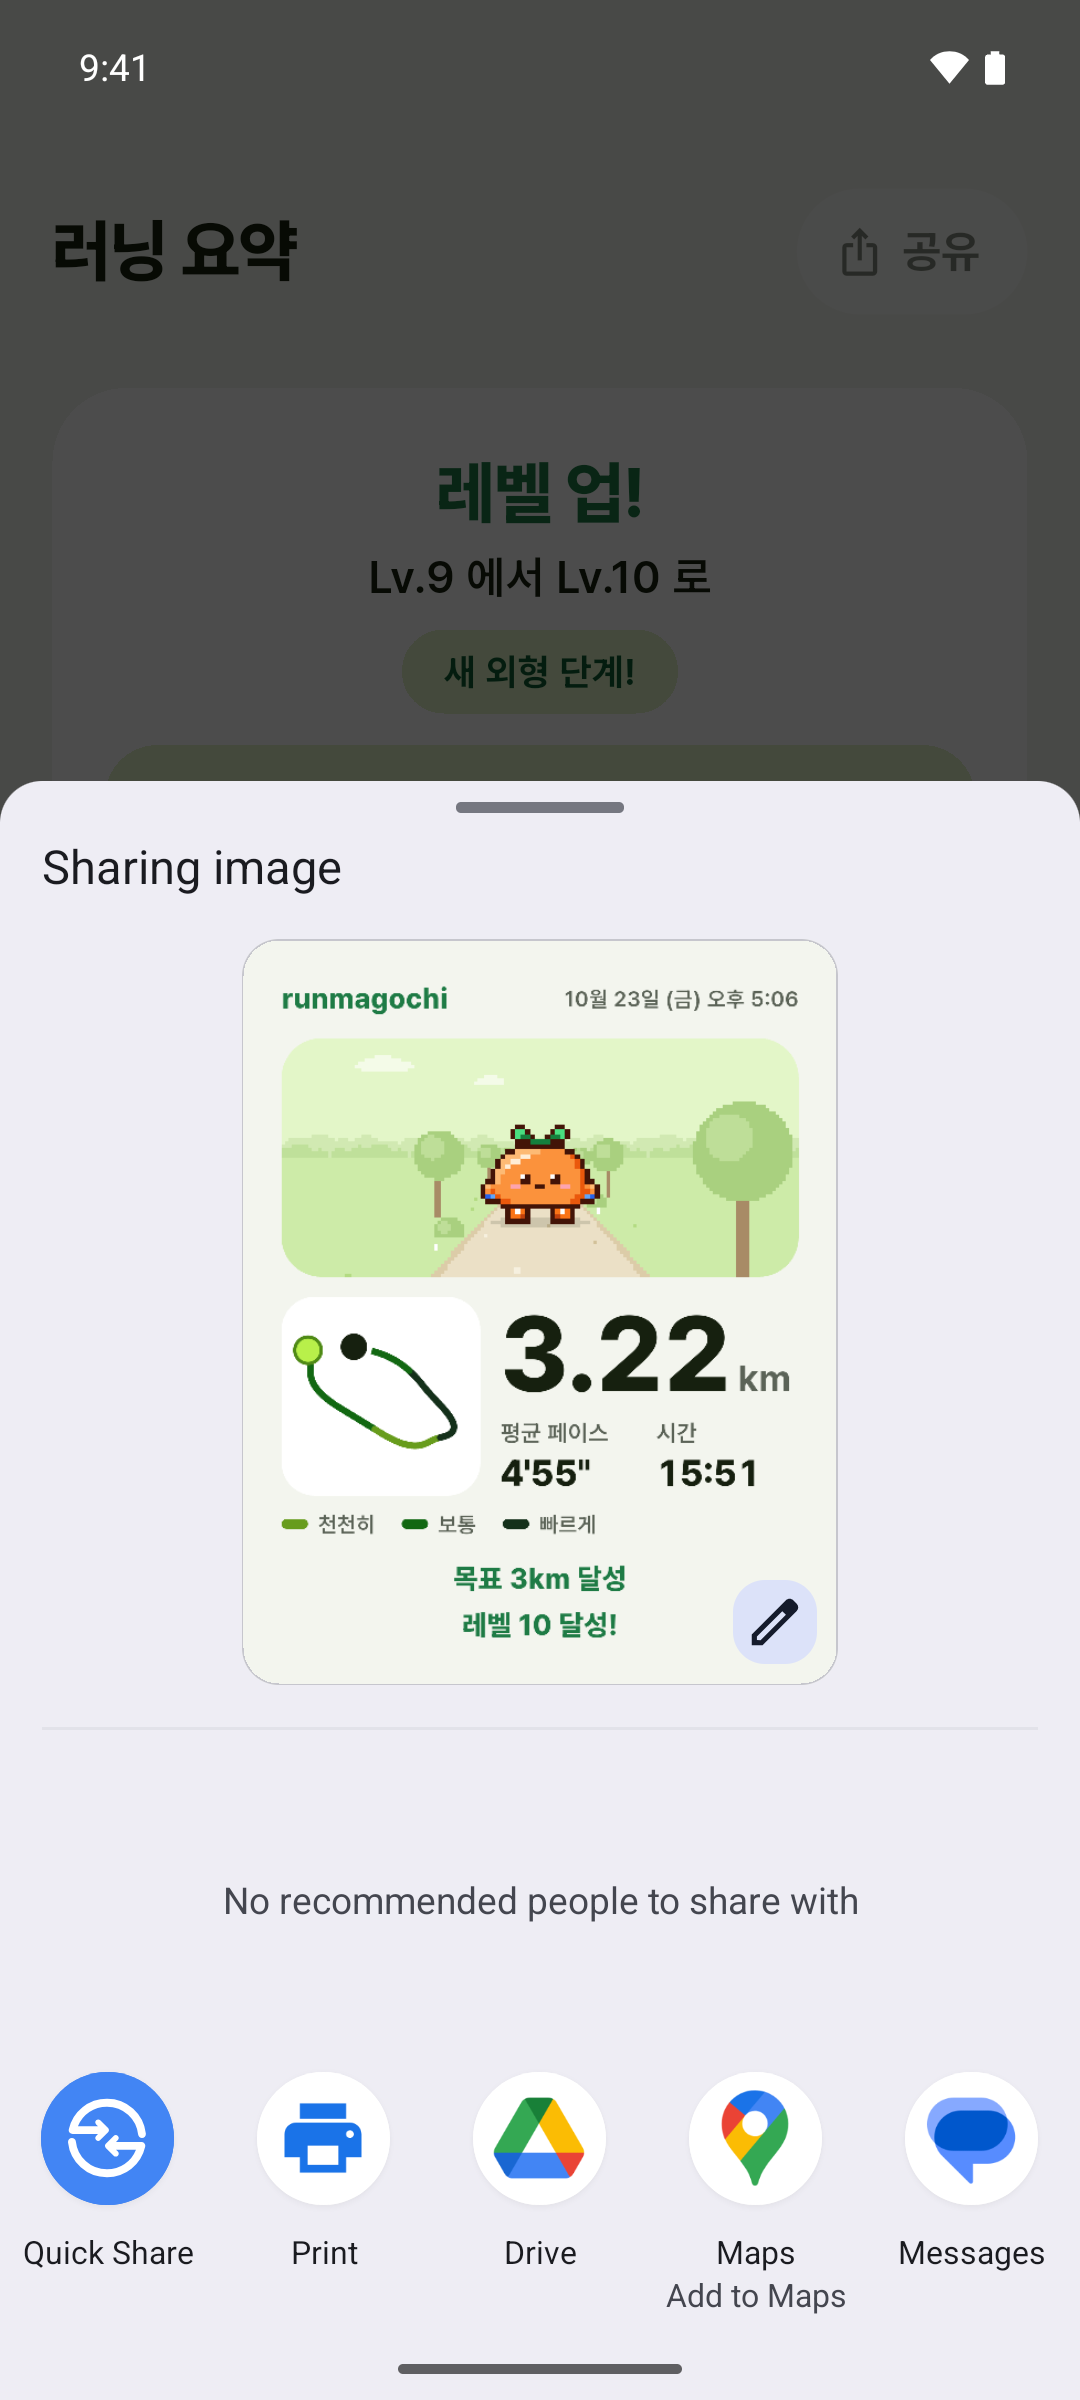
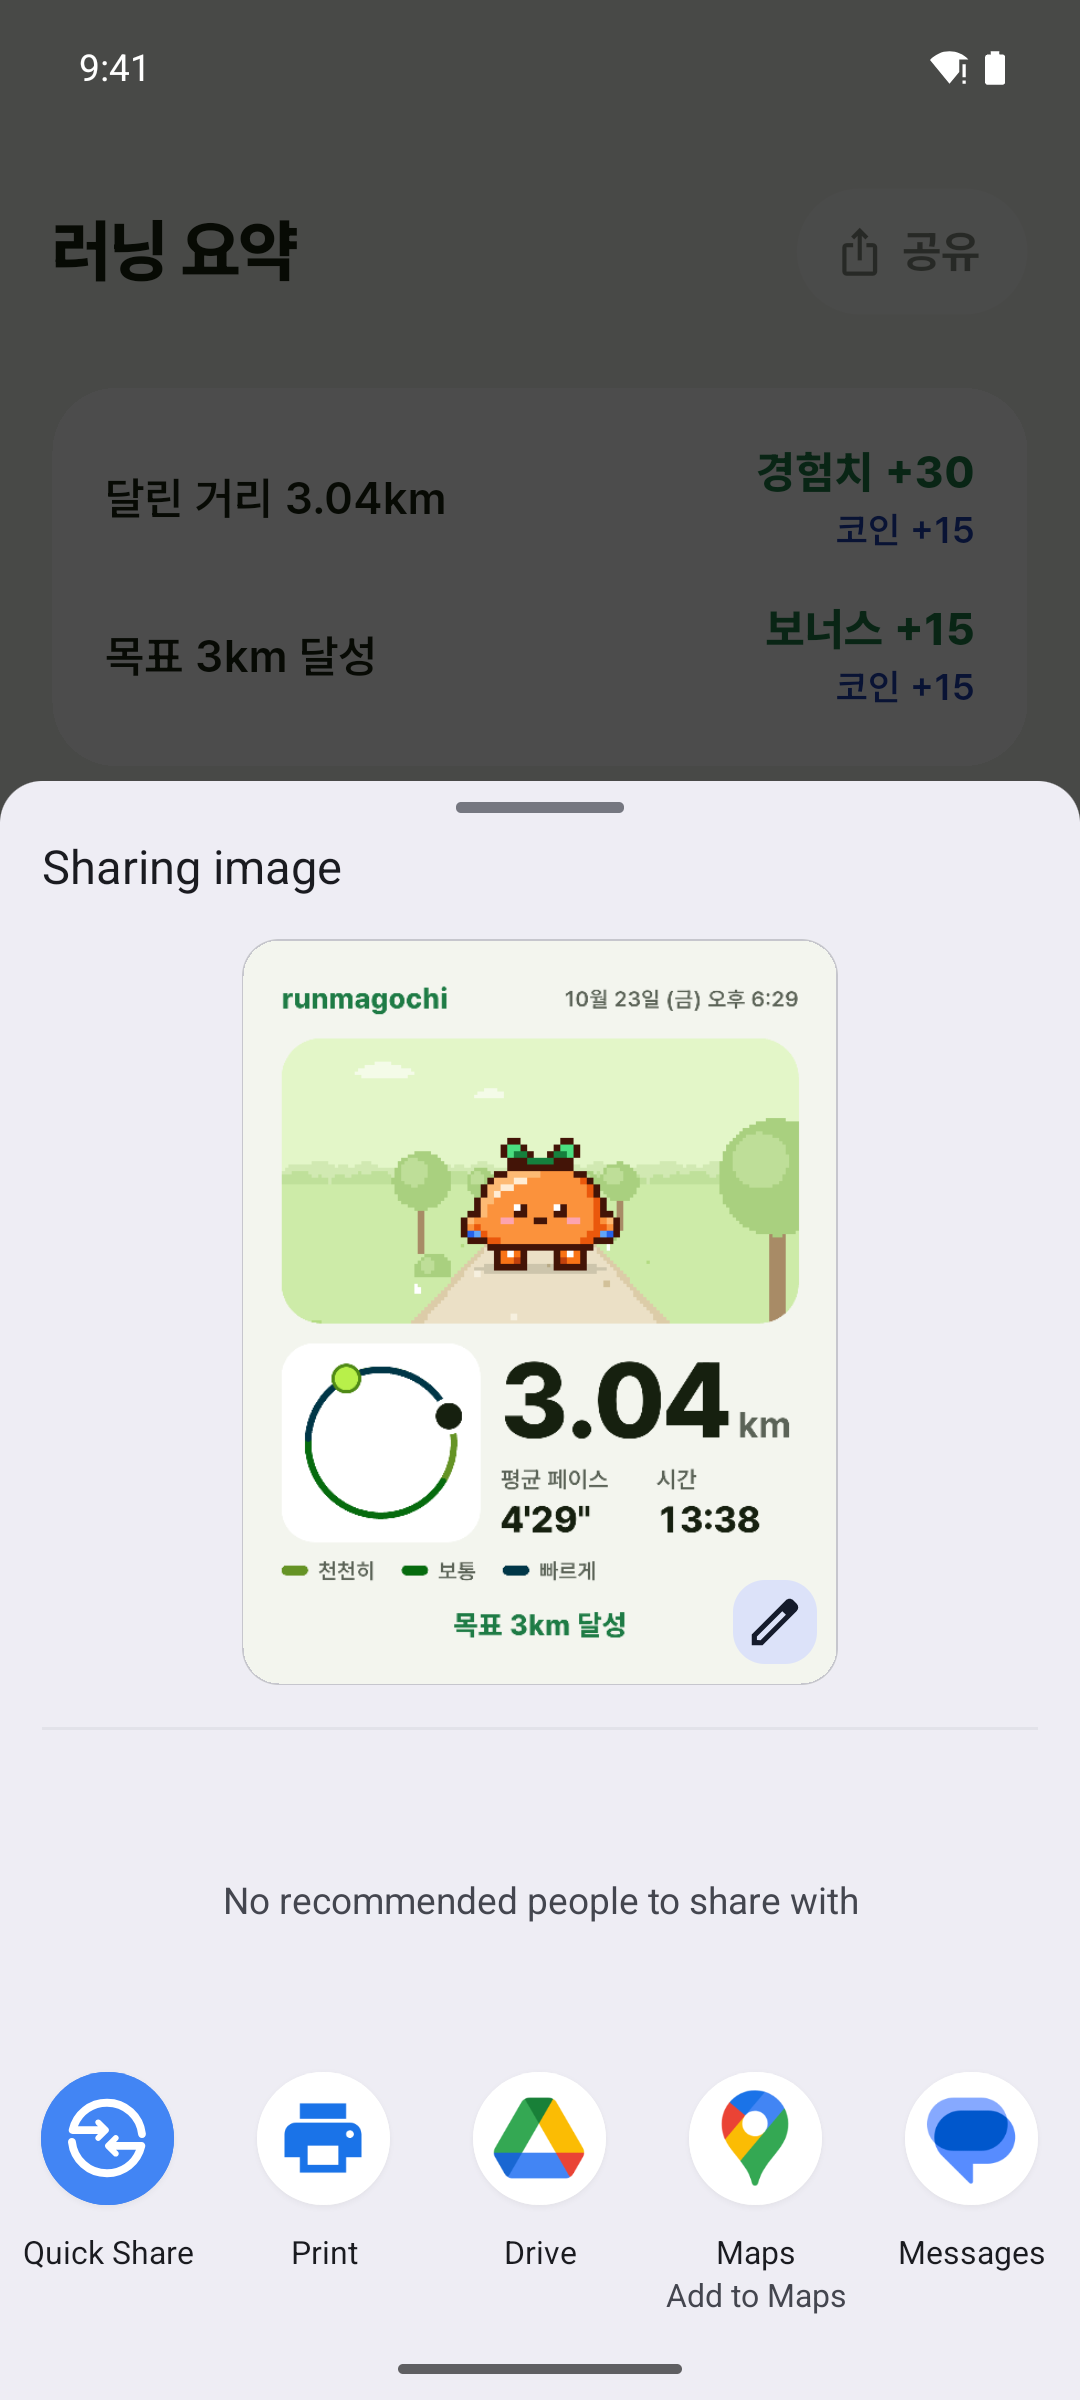
docs: 화면설계서 7판(라이트 경로색 세 단계, 경로 화면 16·19·25 다시 촬영), 작업 30

diff --git a/design/screens/index.html b/design/screens/index.html
@@ -38,9 +38,9 @@
   --ground-line: #B3DB82;
   --stage-ink: #0E5E33;
   --bubble: #FFFFFF;
-  --pace-slow: #679C1C;
-  --pace-mid: #126812;
-  --pace-fast: #14301A;
+  --pace-slow: #659325;
+  --pace-mid: #066B0E;
+  --pace-fast: #003647;
   --wf-screen: #F8F9F5;
   --wf-block: #D3D9CB;
   --wf-deep: #A8B19F;
@@ -404,7 +404,7 @@ dialog.zoom button { min-height: 44px; min-width: 44px; border-radius: 999px; bo
   <div class="wrap">
     <div class="cover-grid">
       <div>
-        <div class="eyebrow"><span class="tag">화면설계서</span><span class="tag">v0.3.0 베타</span><span class="tag">2026-10-23 6판</span></div>
+        <div class="eyebrow"><span class="tag">화면설계서</span><span class="tag">v0.3.0 베타</span><span class="tag">2026-10-23 7판</span></div>
         <h1>런마고치<br><span class="hl">화면설계서</span></h1>
         <p class="lede">달린 거리만큼 도트 친구가 자라는 러닝 앱. 실제 앱을 에뮬레이터에서 돌려 찍은 화면으로 모든 화면과 상태, 화면 사이 이동, 요소별 규칙을 한 장에 정리했어요.</p>
         <dl class="meta">
@@ -592,7 +592,7 @@ dialog.zoom button { min-height: 44px; min-width: 44px; border-radius: 999px; bo
           <h3>경로 페이스·구간 막대 <code>RoutePaceLegend · SplitPaceChart</code></h3>
           <div class="legend"><span><i style="background:var(--pace-slow)"></i>천천히</span><span><i style="background:var(--pace-mid)"></i>보통</span><span><i style="background:var(--pace-fast)"></i>빠르게</span><span><i style="background:var(--muted)"></i>빠른 이동 · 제외</span></div>
           <div class="splits" aria-label="구간 막대 예시"><i style="height:44%"></i><i style="height:48%"></i><i style="height:78%"></i><i style="height:78%"></i><i style="height:58%"></i><i style="height:80%"></i><i class="part" style="height:86%"></i></div>
-          <p class="use">경로는 1km 구간마다 천천히·보통·빠르게 세 단계, 연두 한 계열이에요(라이트는 연한 연두 → 짙은 초록 → 거의 검정 초록, 다크는 짙은 연두 → 연두 → 연한 노랑연두). 색약 흉내에서도 서로 떨어지게 골랐고 범례를 늘 함께 두며, 쓰인 단계만 보여요. 1km 미만 마지막 구간은 흐리게.</p>
+          <p class="use">경로는 1km 구간마다 천천히·보통·빠르게 세 단계, 연두 계열 한 방향 단계예요(라이트는 올리브 연두 → 또렷한 초록 → 짙은 청록으로 색조를 넓혀 세 단계가 한눈에 갈려요, 다크는 짙은 연두 → 연두 → 연한 노랑연두). 색약 흉내에서도 서로 떨어지게 골랐고 범례를 늘 함께 두며, 쓰인 단계만 보여요. 1km 미만 마지막 구간은 흐리게.</p>
         </div>
       </div>
     </div>
@@ -612,7 +612,8 @@ dialog.zoom button { min-height: 44px; min-width: 44px; border-radius: 999px; bo
             <li>Android: AVD <code>runmagochi</code>(Pixel 7, Android 16 · API 36), 릴리스 빌드 0.3.0 베타. 상태바는 시스템 데모 모드로 9:41 고정. 글꼴은 앱에 번들한 서브셋(Runmagochi Sans)을 이 페이지에도 씀.</li>
             <li>iPhone: iPhone 16 Pro 시뮬레이터(iOS 18.6), 디버그 빌드에서 디버그 띠를 끄고 찍음.</li>
             <li>예시 데이터: 2025-11 ~ 2026-10 러닝 33회를 백업 6판 형식으로 만들어 설정 › 가져오기로 넣음(앱은 7판까지 읽음). 게임 규칙대로 경험치·코인·배지를 맞춰 Lv.9, 배지 9개, 코인 315 에서 시작.</li>
-            <li>2026-10-23 다시 찍은 러닝(작업 27 뒤 빌드): 젤리로 목표 3km, 45초 멈춤(자동 일시정지) → 초속 7m 40초(탈것 의심, 그 구간 빠짐) → 3.22km(Lv.9→10, 배지 목표 달성 30번). 2026-10-23 저녁(작업 29 뒤 빌드) 다시 찍은 것: 요약·잘라내기·공유(16·18·19)·기록 상세(25)·다크 요약(43)과 알림 36·38·39b~39e. 요약 미달(17)과 알림 39b·39d·39e 는 목표 7km 러닝을 45초 멈춤 → 초속 7m 탈것 → 위치 서비스 끄기로 자동 종료시켜 찍음(1.30km). 기록 상세 25 는 예시 백업의 10-21 러닝, 다크 요약 43 은 위 3.22km 러닝을 기록에서 열어 찍음. 위치 서비스 꺼짐(13c·39c)은 도토리로 짧게 따로. 모두 가상 GPS(여의도 둘레 고리 경로).</li>
+            <li>2026-10-23 다시 찍은 러닝(작업 27 뒤 빌드): 젤리로 목표 3km, 45초 멈춤(자동 일시정지) → 초속 7m 40초(탈것 의심, 그 구간 빠짐) → 3.22km(Lv.9→10, 배지 목표 달성 30번). 2026-10-23 저녁(작업 29 뒤 빌드) 다시 찍은 것: 요약·잘라내기·공유(16·18·19)·기록 상세(25)·다크 요약(43)과 알림 36·38·39b~39e. 요약 미달(17)과 알림 39b·39d·39e 는 목표 7km 러닝을 45초 멈춤 → 초속 7m 탈것 → 위치 서비스 끄기로 자동 종료시켜 찍음(1.30km). 기록 상세 25 는 예시 백업의 10-21 러닝, 다크 요약 43 은 위 3.22km 러닝을 기록에서 열어 찍음. 위치 서비스 꺼짐(13c·39c)은 도토리로 짧게 따로. 모두 가상 GPS(여의도 둘레 고리 경로).
+            <li>2026-10-23 밤(작업 30 뒤 빌드) 라이트 경로색을 다시 찍음: 요약 긴 화면(16 긴 화면)·공유 카드(19)·기록 상세(25) 는 도토리 말랑이로 목표 3km, 1km 마다 초속 3·4·5.5m(천천히·보통·빠르게 세 단계가 다 나오게) 3.04km 가상 GPS 러닝이에요. 그래서 16 의 긴 화면 아래쪽 숫자는 맨 위 레벨 업 컷(3.22km)과 달라요. 17·18 은 한 색 경로라 그대로, 다크 화면·알림·iOS 는 다시 찍지 않았어요.</li>
             <li>캐릭터: 아이템 없이 기본 3종을 종류·이름만 다른 예시 백업 3개(삐약이·말랑이·토리)로 나눠 찍음. 병아리 = 홈·목표 시트·아바타·다크 러닝, 젤리 = 러닝 중·일시정지·요약·공유·iPhone 아바타, 도토리 = 첫 실행·상점·위치 꺼짐·다크 홈·아바타·상점·iPhone 홈·러닝.</li>
             <li>첫 실행·첫날 홈은 앱 데이터를 지운 상태(10-23, 캐릭터는 무작위로 꼬마 도토리가 나올 때까지 다시), 빈 상태(기록·코인 내역)·권한 안내는 10-22 새로 설치한 상태에서 찍음. 무대가 없는 화면(기록·업적·코인 내역·권한 안내)은 10-22 촬영을 그대로 둠.</li>
           </ul>
@@ -621,7 +622,8 @@ dialog.zoom button { min-height: 44px; min-width: 44px; border-radius: 999px; bo
           <h3>찍으면서 본 것</h3>
           <ul>
                         <li><span class="sev">확인 필요</span>위치 서비스를 끄면 대개 빨강 카드 하나 "위치 서비스가 꺼져 있어요. 켜면 이어서 기록해요"(13c, 알림 39c)인데, 3.2km 러닝 끝에서 끈 한 번은 카드 없이 옛 신호 끊김 말풍선과 알림 "신호가 끊겼어요" 가 떴어요(간헐).</li>
-                        <li><span class="sev">고쳐짐</span>알림 작은 아이콘이 빈 동그라미였던 것을 병아리 실루엣으로 바꿨어요(작업 29). 36·38·39b~39e 를 다시 찍었고, 목표 달성(37)과 종료 예고(39)는 아직 이전 아이콘이에요.</li>
+                        <li><span class="sev">고쳐짐</span>라이트 경로색의 보통(#126812)과 빠르게(#14301A)가 둘 다 어두운 초록이라 구분이 약했던 것을 연두 #659325 · 초록 #066B0E · 청록 #003647 로 나눴어요(작업 30). 경로가 보이는 라이트 화면을 다시 찍었고 다크·알림·iOS 는 그대로예요.</li>
+            <li><span class="sev">고쳐짐</span>알림 작은 아이콘이 빈 동그라미였던 것을 병아리 실루엣으로 바꿨어요(작업 29). 36·38·39b~39e 를 다시 찍었고, 목표 달성(37)과 종료 예고(39)는 아직 이전 아이콘이에요.</li>
             <li><span class="sev">관찰</span>공유 카드는 시스템 공유 창 미리보기에서 잘라냈어요. 오른쪽 아래 연필은 Android 의 편집 버튼이에요. 알림은 알림창에서 앱 카드만 잘라냈어요.</li>
             <li><span class="sev">고쳐짐</span>10-22 에 적은 목표 달성 알림 남음, 잘라내기 슬라이더 연두 채움, 카운트다운 중 탭바, 위치 영구 거부 안내(05b), 첫 위치 튐 직선은 고쳐진 것을 확인했어요.</li>
           </ul>
